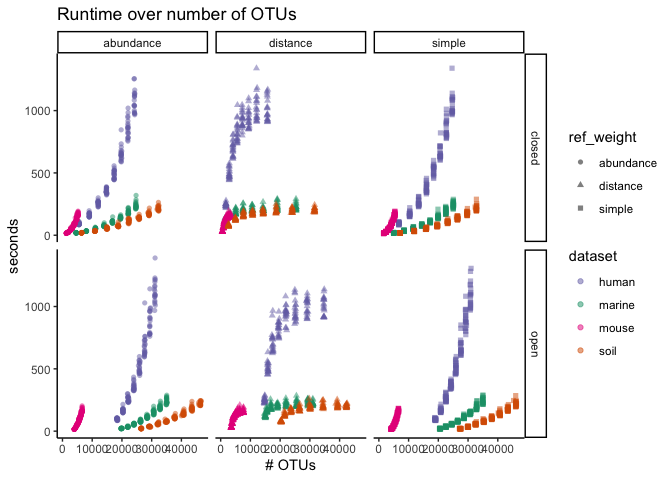
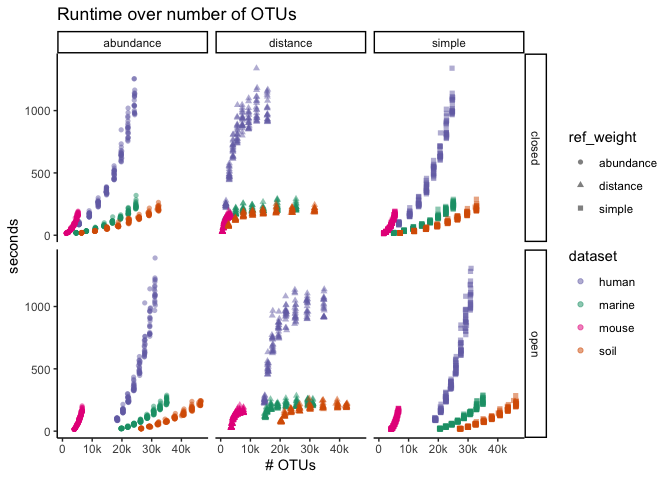
Clean up x axis labels

Changed region(s): [[0.5938, 0.9062, 0.7812, 0.9688], [0.3438, 0.9062, 0.5312, 0.9688], [0.125, 0.9062, 0.2812, 0.9688]]

diff --git a/exploratory/2020/sub3_fit_subsets.md b/exploratory/2020/sub3_fit_subsets.md
@@ -54,6 +54,8 @@ runtime %>% ggplot(aes(x=num_ref_seqs, y=s, color=dataset)) +
   geom_point(alpha = 0.3) +
   facet_grid(method ~ ref_weight) +
   scale_color_manual(values = dataset_colors) +
+  scale_x_continuous(breaks = seq(0, 200000, 50000),
+                     labels = c('0', '50k', '100k', '150k', '200k')) +
   labs(title = 'Runtime over reference size',
        x = '# sequences in reference',
        y = 'seconds')
@@ -67,6 +69,8 @@ runtime %>% full_join(sensspec_fit) %>%
   geom_point(alpha = 0.5) +
   facet_grid(method ~ ref_weight) +
   scale_color_manual(values = dataset_colors) +
+  scale_x_continuous(breaks = seq(0, 40000, 10000),
+                     labels = c('0', '10k', '20k', '30k', '40k')) +
   labs(title = 'Runtime over number of OTUs',
        x = '# OTUs',
        y = 'seconds')
